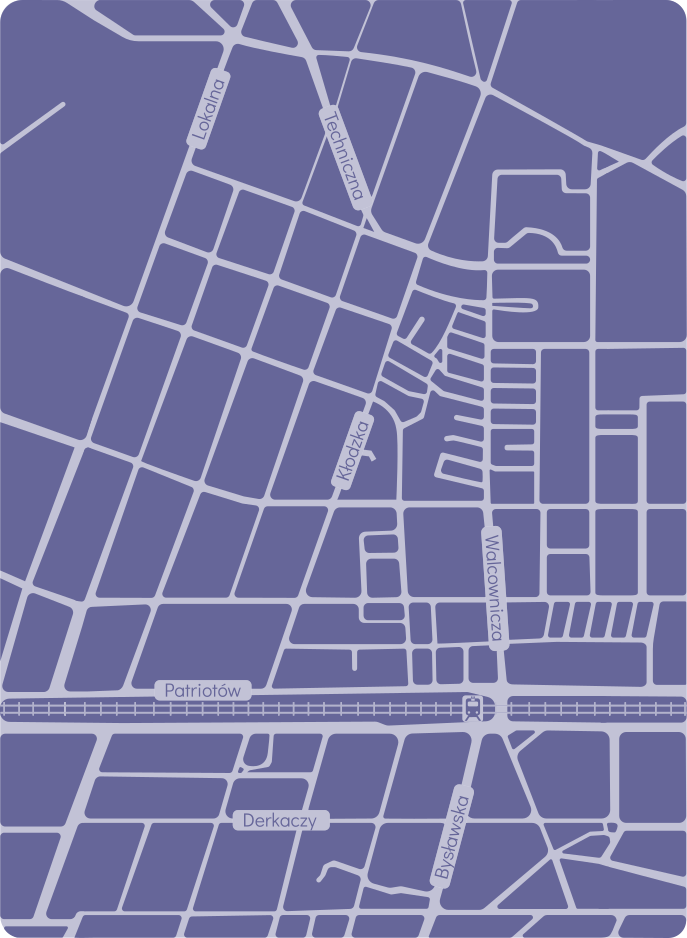
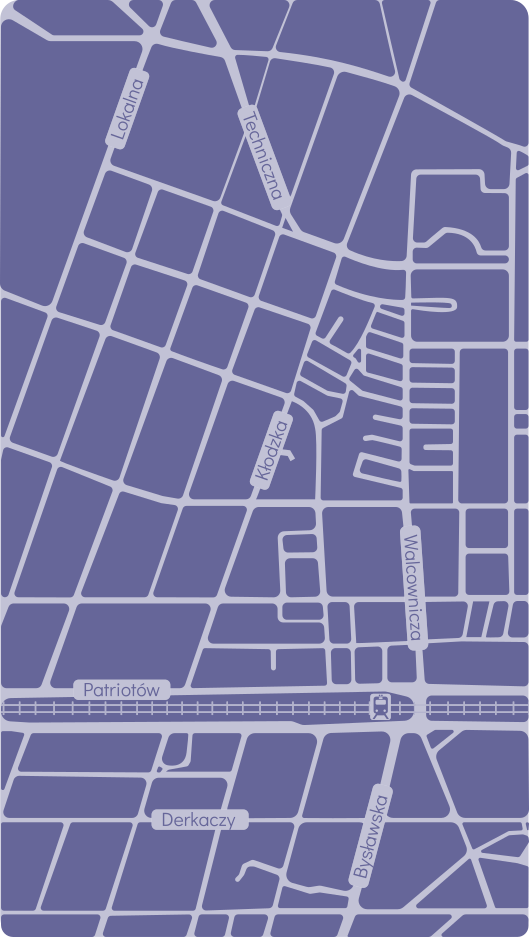
punkty na mapie

diff --git a/src/modules/game/scenario.ts b/src/modules/game/scenario.ts
@@ -25,7 +25,7 @@ export const SCENARIO: GameScenario = {
                 lat: 52.16383572337064,
                 lng: 21.21937101781457
             },
-            name: ['Punkt geo 1'],
+            name: ['ul. Walcownicza 37', 'Widok na ul. Handlową'],
             nextStep: '1.2'
         },
         {
@@ -41,7 +41,7 @@ export const SCENARIO: GameScenario = {
                 lat: 52.16805363672106,
                 lng: 21.223030642885533
             },
-            name: ["Punkt geo 2"],
+            name: ["ul.Techniczna", 'Willa Féiner'],
             nextStep: '2.2'
         },
         {
@@ -57,7 +57,7 @@ export const SCENARIO: GameScenario = {
                 lat: 52.16896284983934,
                 lng: 21.216436812891743
             },
-            name: ["Punkt geo 3"],
+            name: ["ul. Lokalna 51", "Sanatorium Dziecięce im. W. Medema"],
             nextStep: '3.2'
         },
         {
@@ -74,7 +74,7 @@ export const SCENARIO: GameScenario = {
                 lat: 52.16379517815583,
                 lng: 21.210987653919734
             },
-            name: ["Punkt geo 4"],
+            name: ["ul. Bambusowa 11", "Synagoga"],
             nextStep: '4.2'
         },
         {
@@ -90,7 +90,7 @@ export const SCENARIO: GameScenario = {
                 lat: 52.15935776350059,
                 lng: 21.208431439628814
             },
-            name: ["Punkt geo 5"],
+            name: ["ul. Obszarowa 1", "Stacja kolei Jabłonowskiej"],
             nextStep: '5.2'
         },
         {
@@ -106,7 +106,7 @@ export const SCENARIO: GameScenario = {
                 lat: 52.16211034733332,
                 lng: 21.21154192886253
             },
-            name: ["Punkt geo 6"],
+            name: ["ul. Patriotów", "Pomnik pamięci 6500 Żydów z getta w Falenicy"],
             nextStep: '6.2'
         },
         {
@@ -131,7 +131,7 @@ export const SCENARIO: GameScenario = {
                 lat: 52.16162878122313,
                 lng: 21.21137303357458
             },
-            name: ["Punkt końcowy"],
+            name: ["Stacja Warszawa Falenica, Peron 1"],
             nextStep: '7.1'
         },
         {

diff --git a/src/routes/game/compass-view/multi/map/pixi-app/data.ts b/src/routes/game/compass-view/multi/map/pixi-app/data.ts
@@ -13,50 +13,50 @@ export const MAP: {
         {
             id: '1.1',
             position: {
-                x: 100,
-                y: 100
+                x: 421,
+                y: 425
             }
         },
         {
             id: '2.1',
             position: {
-                x: 300,
-                y: 100
+                x: 248,
+                y: 77
             }
         },
         {
             id: '3.1',
             position: {
-                x: 100,
-                y: 300
+                x: 55,
+                y: 267
             }
         },
         {
             id: '4.1',
             position: {
-                x: 300,
-                y: 300
+                x: 234,
+                y: 646
             }
         },
         {
             id: '5.1',
             position: {
-                x: 500,
-                y: 100
+                x: 411,
+                y: 898
             }
         },
         {
             id: '6.1',
             position: {
-                x: 100,
-                y: 500
+                x: 336,
+                y: 687
             }
         },
         {
             id: '8.1',
             position: {
-                x: 500,
-                y: 500
+                x: 379,
+                y: 712
             }
         }
     ]

diff --git a/src/routes/game/compass-view/multi/map/pixi-app/app.ts b/src/routes/game/compass-view/multi/map/pixi-app/app.ts
@@ -7,7 +7,7 @@ type AppConfig = {
     onPointerClicked(id: string): void;
 }
 
-export const MAP_WIDTH = 687;
+export const MAP_WIDTH = 529;
 export const MAP_HEIGHT = 938;
 
 export default class App extends PIXI.Application {
